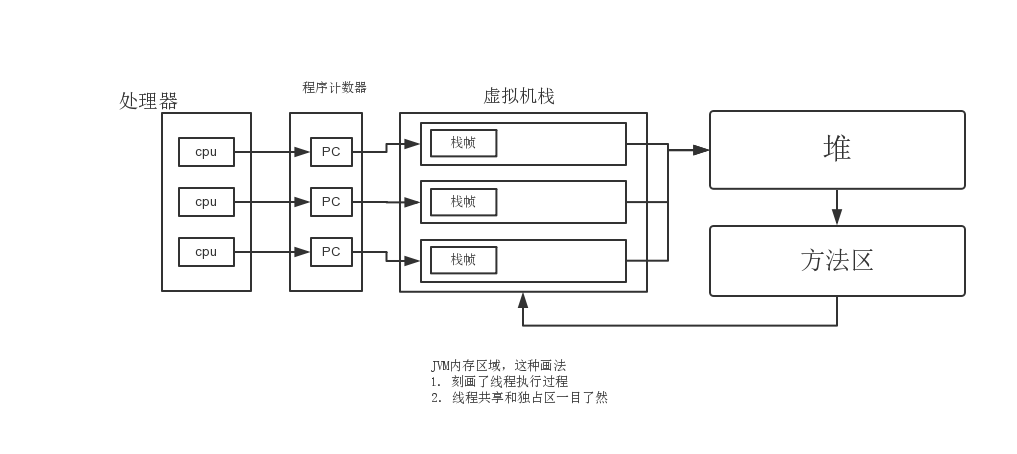
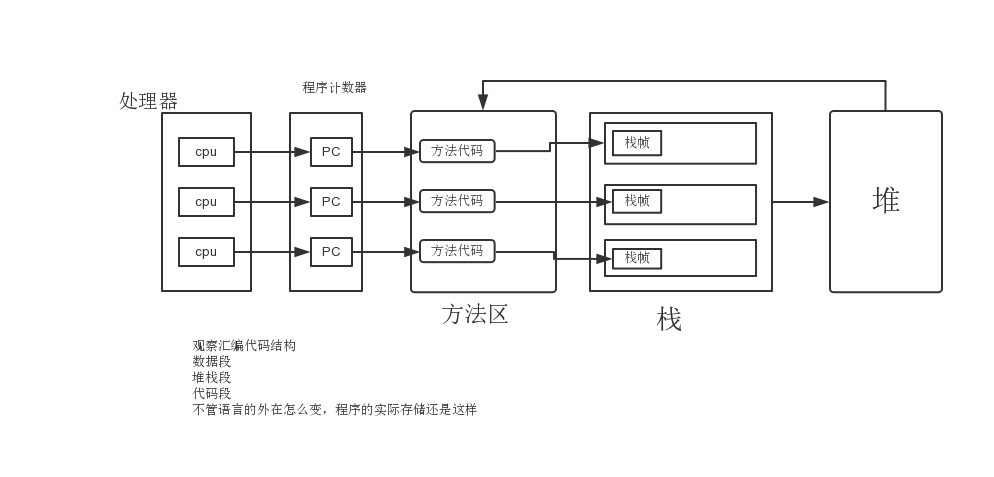
update jvm

diff --git a/_posts/Technology/Java/2014-10-27-jvm.md b/_posts/Technology/Java/2014-10-27-jvm.md
@@ -16,11 +16,21 @@ keywords: JAVA JVM
 
 ![Alt text](/public/upload/jvm_memory.png)
 
+一个cpu对应一个线程，我们从cpu的根据pc指向的指令的一次执行开始：
+
+1. cpu执行pc指向方法区的指令
+2. 指令=操作码+操作数，jvm的指令执行时基于栈的，所以需要从栈帧中的“栈”区域获取操作数，栈的操作数从栈帧中的“局部变量表”和堆中的对象实例数据得到。
+3. 当在一个方法中调用新的方法时，根据栈帧中的对象引用找到对象在堆中的实例数据，进而根据对象实例数据中的方法表部分找到方法在方法区中的地址。根据方法区中的数据在当前线程私有区域创建新的栈帧，切换PC，开始新的执行。
+
+### OOM
+
+不同的区域存储不同性质的数据，除了程序计数器区域不会OOM外，其它的都有可能因为存储本区域数据过多而OOM。
+
 ## 垃圾收集算法
 
 ### 如何判断对象已经死亡
 
-说白了，判断还有引用引用它么？
+说白了，判断还有“引用”引用它么？
 
 1. 引用计数法
 
@@ -32,7 +42,7 @@ keywords: JAVA JVM
 
 ### 回收已死对象所占内存区域
 
-当我们知道哪些对象可以回收时，如何提高回收效率呢？（当然是能一次性回收一片连续区域，效率最高）
+当我们知道哪些对象可以回收时，它们分散在堆的各个地方，如何提高回收效率呢？一次回收完成后，理想状态是：内存是“整齐”的，活着的在一边，空闲的在一边。
 
 1. 标记-清除算法
 
@@ -49,3 +59,10 @@ keywords: JAVA JVM
 4. 分代收集算法
 
     - 实现：将堆区根据对象生存期分为几块，比如分为新生代和老年代，新生代采用“复制算法”，老年代采用“标记-清理”或“标记-整理”算法。
+
+### 小结
+
+知道垃圾回收的机理没有意义，有意义的是
+
+1. 观察所做系统的对象生存时间，从而更改jvm垃圾收集算法配置以提高效率，这个比较高大上，一般人干不了
+2. 在程序中留点心，尽量减少“无引用”对象的产生。比如，尽量不要在for循环中创建对象。

diff --git a/_posts/Technology/Tool/2014-10-09-virtualbox.md b/_posts/Technology/Tool/2014-10-09-virtualbox.md
@@ -24,3 +24,5 @@ VBoxManage.exe一般在virtualbox 安装目录下，以为virtualbox vm 添加sh
 如果你需要对某个vm进行某些操作，但这些操作会影响vm现有的环境，便可以选择先克隆该vm，在新vm上进行必要的操作。
 
 **注意**，操作过程中须勾选`reinitalize the MAC address of all network cards`选项。
+
+## Vagrant
